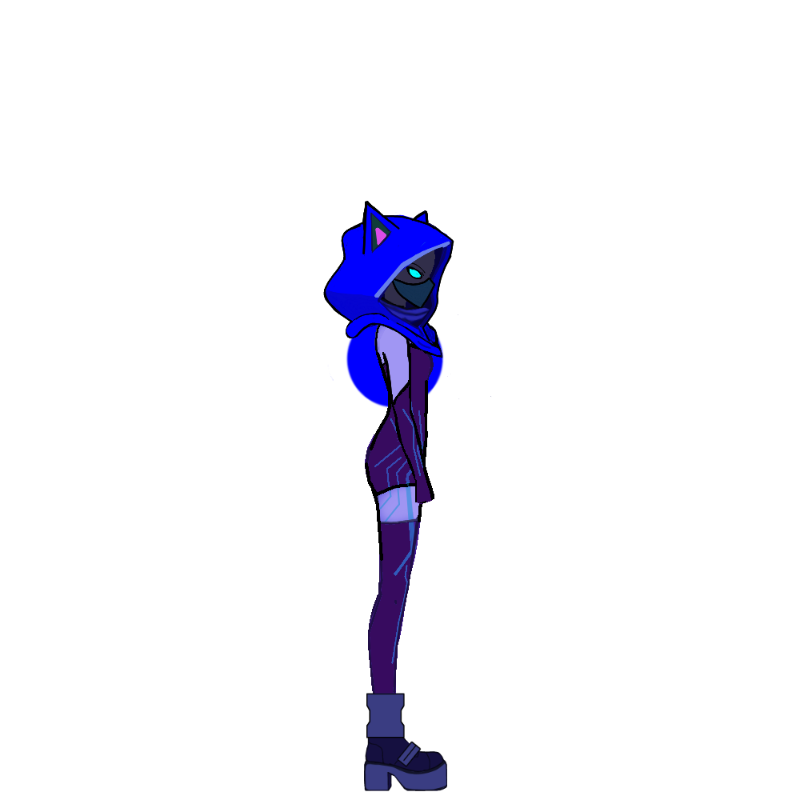
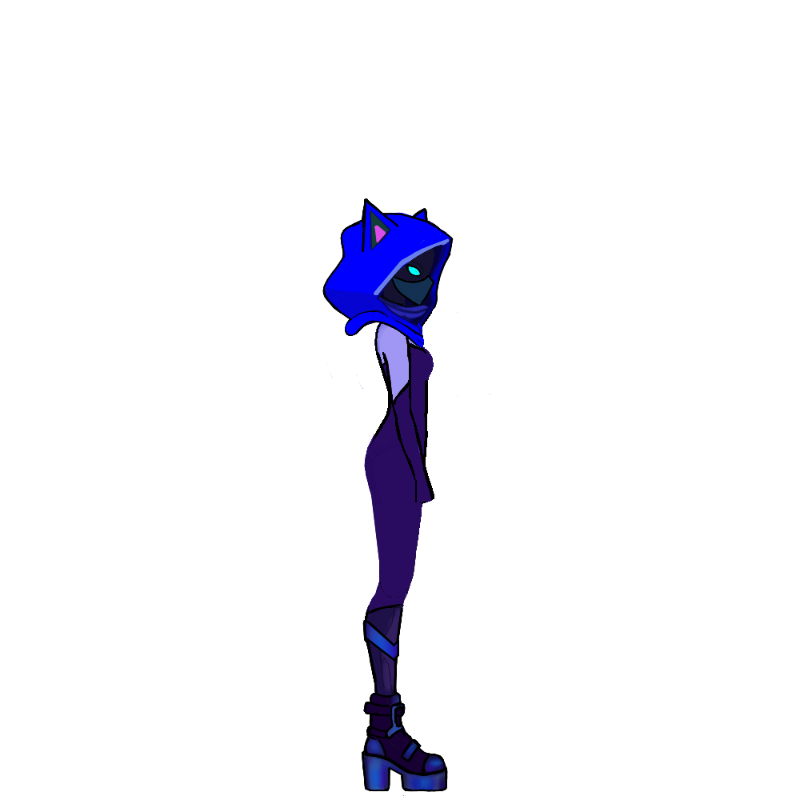
fine tuning cape for idle and run sprites

Changed region(s): [[0.4062, 0.25, 0.5625, 1.0]]

diff --git a/src/tools/play.html b/src/tools/play.html
@@ -680,16 +680,16 @@ function stepDissolve(dt) {
    IDLE, THE SPELL CAST AND THE JUMP SHEET'S POSES ALWAYS GET THE VERLET CAPE (THEIR ART HAS NO CAPE). THE KICKS, WALL SLIDE AND THE FLIP HAVE IT DRAWN IN.
    EVERYTHING IS VISUAL: THE CHAIN IS STEPPED INSIDE tick() (SO HIT-STOP FREEZES IT) BUT NEVER FEEDS BACK INTO THE PLAYER. */
 const CLOAK = { backSrc: 'assets/images/nova/sprites/cloakBottom.png', frontSrc: 'assets/images/nova/sprites/cloakTop.png', frames: 4, fps: 5, anchor: { x: 0.6, y: 0.7 }, scale: 0.95 };
-const CLOAK_POSE = { run: { x: 150, y: -20, rot: 0 } };
+const CLOAK_POSE = { run: { x: 150, y: 20, rot: 0 } };
 const CAPE_BAKED_ANIMS = new Set(['idle', 'attack', 'attackKick', 'airKick', 'wallSlide', 'jumpStart', 'jump', 'doubleJump', 'fall', 'land']);
 const CAPE_VERLET_SKIP_ANIMS = new Set(['attackKick', 'airKick', 'wallSlide', 'doubleJump']);
 const CAPE_MODES = ['sprites (original)', 'spring + warp', 'verlet cloth'];
-const CAPE_SPRING = { stiffness: 100, damping: 80, runAngle: 0, fallAngle: 12, kick: 260, strips: 50, ampMin: 6, ampMax: 24, freqMin: 1, freqMax: 3, phase: 5.0 };
-const CAPE_CLOTH = { segments: 13, segLen: 7, gravity: 1000, drag: 5.6, lift: 0.2, flutter: 100, backBias: 300, iterations: 2, bend: 0.8, step: 1 / 120, maxSteps: 6, w0: 40, w1: 75, ripple: 0.1, rootOffset: { x: -110, y: -180 }, hangX: 0.35, hangY: 0.93 };
+const CAPE_SPRING = { stiffness: 150, damping: 80, runAngle: 0, fallAngle: 12, kick: 260, strips: 50, ampMin: 6, ampMax: 24, freqMin: 1, freqMax: 3, phase: 5.0 };
+const CAPE_CLOTH = { segments: 14, segLen: 8, gravity: 1100, drag: 5.6, lift: 0.2, flutter: 100, backBias: 700, iterations: 2, bend: 0.5, step: 1 / 120, maxSteps: 6, w0: 40, w1: 8, ripple: 0.1, rootOffset: { x: -110, y: -180 }, hangX: 0.35, hangY: 0.93 };
 const CAPE_COLORS = ['#0000ff', '#0000ff', '#0000ff'], CAPE_EDGE = '#0000ff', CAPE_EDGE_GLOW = '#0000ff';
-const CAPE_DISSOLVE = { enabled: true, start: 0.5, amount: 0.7, cell: 12, edge: 0.3, flow: 30, speed: 0.5, fade: 0.9, glow: 0.3, edgeFade: 0.95 };
+const CAPE_DISSOLVE = { enabled: true, start: 0.6, amount: 0.3, cell: 15, edge: 0, flow: 5, speed: 0.1, fade: 0.9, glow: 0.2, edgeFade: 0.9 };
 const DISSOLVE_EDGE_INNER = '#1C90D6', DISSOLVE_EDGE_OUTER = '#8D2EC2';
-const IDLE_CAPE = { enabled: true, root: { x: 50, y: -197 }, rootBob: [0, -2, -3, -4, -3, -2], blendRate: 6, backBias: 550, gust: 1050, gustHz: 0.35, flutter: 150, layered: true, topWidth: 0.8, liningShift: 0.12, liningColors: ['#0000FF', '#0000FF', '#0000FF'], liningEdge: '#1061C6', liningGlow: '#0A0568' };
+const IDLE_CAPE = { enabled: true, root: { x: 30, y: -185 }, rootBob: [0, -2, -3, -4, -3, -2], blendRate: 5, backBias: 550, gust: 1050, gustHz: 0.35, flutter: 150, layered: false, topWidth: 0, liningShift: 0.12, liningColors: ['#0000FF', '#0000FF', '#0000FF'], liningEdge: '#1061C6', liningGlow: '#0A0568' };
 const ATTACK_CAPE = { enabled: true, root: { x: 0, y: -185 }, blendRate: 20, backBias: 600, flutter: 250, gust: 7000, gustLift: 0.7, gustTime: 0.6 };
 const JUMP_CAPE = { roots: { jumpStart: { x: 14, y: -205 }, jump: { x: 8, y: -215 }, fall: { x: 20, y: -244 }, land: { x: 26, y: -238 } }, blendRate: 16, rootEase: 30 };
 const hexRgb = h => [parseInt(h.slice(1, 3), 16), parseInt(h.slice(3, 5), 16), parseInt(h.slice(5, 7), 16)];
